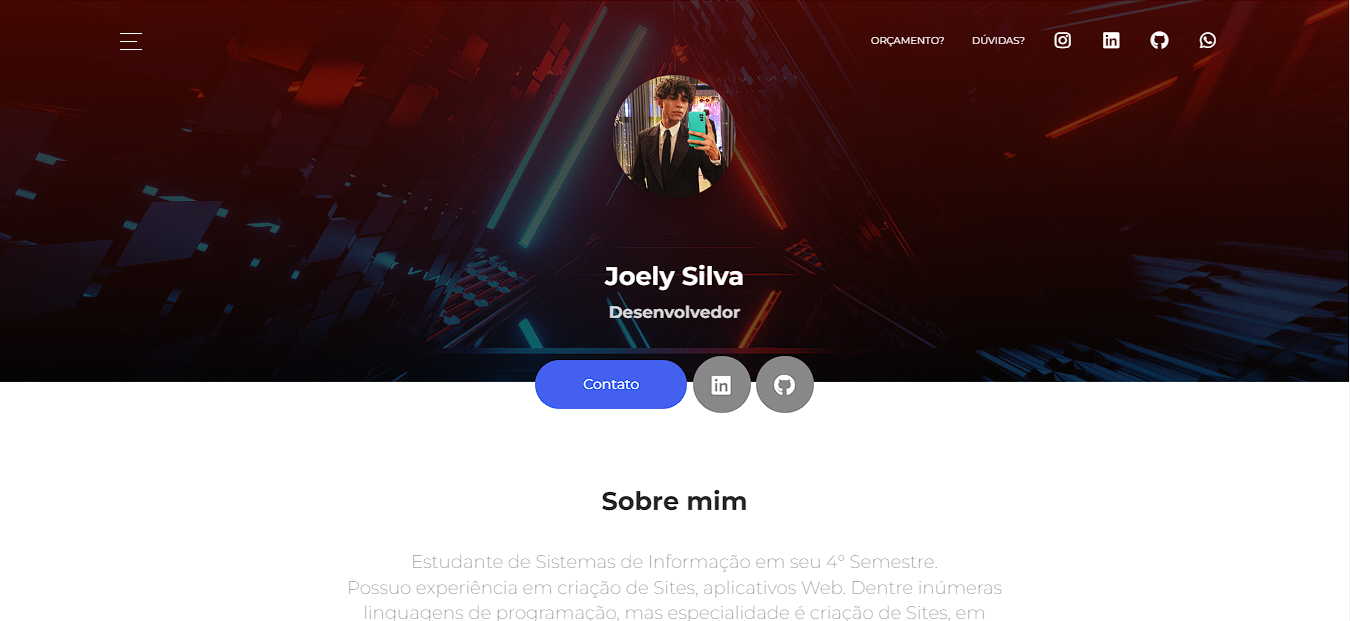
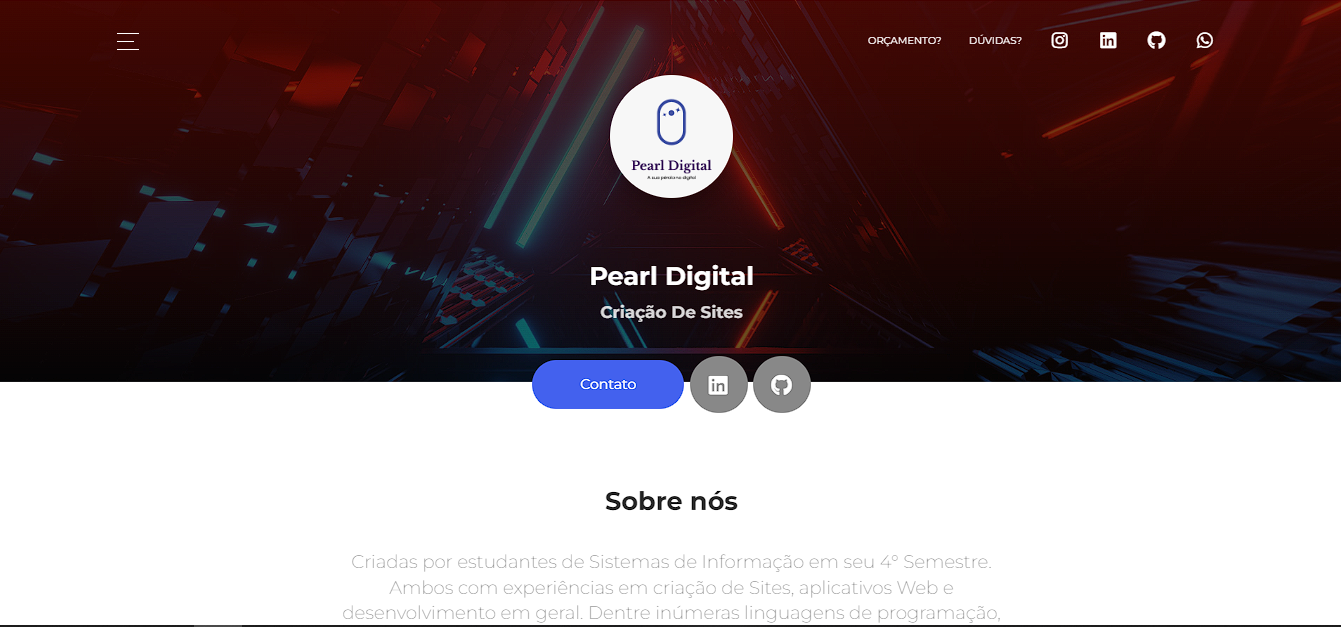
siteok

diff --git a/sobrenos.html b/sobrenos.html
@@ -1,0 +1,233 @@
+<!DOCTYPE html>
+<html lang="en">
+
+<head>
+    <meta charset="utf-8" />
+    <link rel="apple-touch-icon" sizes="76x76" href="./assets/img/apple-icon.png">
+    <link rel="icon" type="image/png" href="./assets/img/logopd.png">
+    <meta http-equiv="X-UA-Compatible" content="IE=edge,chrome=1" />
+    <title>
+        Pearl Digital
+    </title>
+    <meta content='width=device-width, initial-scale=1.0, maximum-scale=1.0, user-scalable=0, shrink-to-fit=no'
+        name='viewport' />
+    <!--     Fonts and icons     -->
+    <link href="https://fonts.googleapis.com/css?family=Montserrat:400,700,200" rel="stylesheet" />
+    <link rel="stylesheet" href="https://use.fontawesome.com/releases/v5.7.1/css/all.css"
+        integrity="sha384-fnmOCqbTlWIlj8LyTjo7mOUStjsKC4pOpQbqyi7RrhN7udi9RwhKkMHpvLbHG9Sr" crossorigin="anonymous">
+    <!-- CSS Files -->
+    <link href="./assets/css/bootstrap.min.css" rel="stylesheet" />
+    <link href="./assets/css/now-ui-kit.css?v=1.3.0" rel="stylesheet" />
+    <!-- CSS Just for demo purpose, don't include it in your project -->
+    <link href="./assets/demo/demo.css" rel="stylesheet" />
+</head>
+
+<body class="landing-page sidebar-collapse">
+    <!-- Navbar -->
+    <nav class="navbar navbar-expand-lg bg-primary fixed-top navbar-transparent " color-on-scroll="400">
+        <div class="container">
+            <div class="dropdown button-dropdown">
+                <a href="#pablo" class="dropdown-toggle" id="navbarDropdown" data-toggle="dropdown">
+                    <span class="button-bar"></span>
+                    <span class="button-bar"></span>
+                    <span class="button-bar"></span>
+                </a>
+            </div>
+            <div class="navbar-translate">
+                <button class="navbar-toggler navbar-toggler" type="button" data-toggle="collapse"
+                    data-target="#navigation" aria-controls="navigation-index" aria-expanded="false"
+                    aria-label="Toggle navigation">
+                    <span class="navbar-toggler-bar top-bar"></span>
+                    <span class="navbar-toggler-bar middle-bar"></span>
+                    <span class="navbar-toggler-bar bottom-bar"></span>
+                </button>
+            </div>
+            <div class="collapse navbar-collapse justify-content-end" id="navigation"
+                data-nav-image="../assets/img/blurred-image-1.jpg">
+                <ul class="navbar-nav">
+                    <li class="nav-item">
+                        <a class="nav-link" href="https://wa.me/5588981522648">Orçamento?</a>
+                    </li>
+                    <li class="nav-item">
+                        <a class="nav-link" href="https://wa.me/5588981522648">Dúvidas?</a>
+                    </li>
+                    <li class="nav-item">
+                        <a class="nav-link" rel="tooltip" title="Me siga no Instagram" data-placement="bottom" href="https://www.instagram.com/ss.joely/"
+                            target="_blank">
+                            <i class="fab fa-instagram"></i>
+                        </a>
+                    </li>
+                    <li class="nav-item">
+                        <a class="nav-link" rel="tooltip" title="Me veja no Linkedin" data-placement="bottom" href="https://www.linkedin.com/in/joely-sousa-silva-231322167/"
+                            target="_blank">
+                            <i class="fab fa-linkedin"></i>
+                            <p class="d-lg-none d-xl-none">Me encontre no Linkedin</p>
+                        </a>
+                    </li>
+                    <li class="nav-item">
+                        <a class="nav-link" rel="tooltip" title="Me veja no github" data-placement="bottom" href="https://github.com/JSSO0"
+                            target="_blank">
+                            <i class="fab fa-github"></i>
+                        </a>
+                    </li>
+                    <li class="nav-item">
+                        <a class="nav-link" rel="tooltip" title="Me contrate" data-placement="bottom" href="https://wa.me/5588981522648"
+                            target="_blank">
+                            <i class="fab fa-whatsapp"></i>
+                        </a>
+                    </li>
+                </ul>
+            </div>
+        </div>
+    </nav>
+    <!-- End Navbar -->
+
+    <div class="wrapper">
+        <div class="page-header page-header-small">
+            <div class="page-header-image" data-parallax="true" style="background-image: url('./assets/img/bg3.jpg');">
+            </div>
+            <div class="content-center">
+                <div class="container">
+                    <h1 class="title">Pearl Digital.</h1>
+                    <div class="text-center">
+                        <a href="https://wa.me/5588981522648" class="btn btn-primary btn-icon btn-round">
+                            <i class="fab fa-whatsapp"></i>
+                        </a>
+                        <a href="https://www.linkedin.com/in/joely-sousa-silva-231322167/" class="btn btn-primary btn-icon btn-round">
+                            <i class="fab fa-linkedin"></i>
+                        </a>
+                        <a href="https://github.com/JSSO0" class="btn btn-primary btn-icon btn-round">
+                            <i class="fab fa-github"></i>
+                        </a>
+                    </div>
+                </div>
+            </div>
+        </div>
+        <div class="section section-about-us">
+            <div class="container">
+                <div class="row">
+                    <div class="col-md-8 ml-auto mr-auto text-center">
+                        <h2 class="title">Quem somos?</h2>
+                        <h5 class="description">Trabalhamos com criação de Sites, de Landing Pages a
+                            um pouco mais complexos, somente estático, podemos realizar o salvamento de dados, como
+                            captura de leads, e-mail e afins.
+                            Futuramente, começaremos a criação de aplicativos mobile, se tiver uma demanda entre em
+                            contato, negociaremos da melhor forma, mais rápida entrega e o menor preço de mercado.
+                        </h5>
+                    </div>
+                </div>
+                <div class="separator separator-primary"></div>
+                <div class="section-story-overview">
+                    <div class="row">
+                        <div class="col-md-6">
+                            <div class="image-container image-left" style="background-image: url('./assets/img/ex1.png')">
+                                <!-- First image on the left side -->
+                                <p class="blockquote blockquote-primary">"Nunca quis ser melhor que ninguém... <br>
+                                    Apenas tive o comprometimento!"
+                                    <br>
+                                    <br>
+                                    <small>-Major RD</small>
+                                </p>
+                            </div>
+                        </div>
+                        <div class="col-md-5">
+                            <!-- First image on the right side, above the article -->
+                            <a href="https://buzfeed.netlify.app/">
+                                <div class="image-container image-right" style="background-image: url('./assets/img/ex2.png')"></div>
+                            </a>
+                            <h3>Estes são alguns dos sites que criei, clicando <a href="#">aqui</a> será direcionado a uma galeria</h3>
+                        </div>
+                    </div>
+                </div>
+            </div>
+        </div>
+        <div class="section section-team text-center">
+            <div class="container">
+                <h2 class="title">O time</h2>
+                <div class="team">
+                    <div class="row">
+                        <div class="col-md-4">
+                            <div class="team-player text-center">
+                                <img src="./assets/img/eu.jpg" alt="Thumbnail Image"
+                                    class="rounded-circle img-fluid img-raised">
+                                <h4 class="title">Joely Silva</h4>
+                                <p class="category text-primary">Desenvolvedor e Administrador</p>
+                                <p class="description">Dentre as capacidades, temos além do Web Design, construção de sites, construção de aplicativos, fundador da Pearl Digital, empresa virtual de Softwares e sites!
+                                    1 ano com experiência em construção de sites, vc pode acessar meu
+                                    <a href="https://portifoliopd.netlify.app/">portifolio</a> ou entrar em contato se desejar mais informações sobre.</p>
+                                <a href="https://wa.me/5588981522648" class="btn btn-primary btn-icon btn-round"><i
+                                        class="fab fa-whatsapp"></i></a>
+                                <a href="https://www.linkedin.com/in/joely-sousa-silva-231322167/" class="btn btn-primary btn-icon btn-round"><i
+                                        class="fab fa-linkedin"></i></a>
+                            </div>
+                        </div>
+                        <div class="col-md-4">
+                            <div class="team-player text-center">
+                                <img src="./assets/img/junio.jfif" alt="Thumbnail Image"
+                                    class="rounded-circle img-fluid img-raised">
+                                <h4 class="title">Janailson Junio</h4>
+                                <p class="category text-primary">Desenvolvedor</p>
+                                <p class="description">Possuo experiencia em criação de sites para lojas, com criação de páginas para produtos e carrinhos, como pode ver em
+                                    <a href="#">portifolio</a> e se desejar mais informações sobre entre em contato abaixo.</p>
+                                <a href="https://www.instagram.com/junio_sm/" class="btn btn-primary btn-icon btn-round"><i
+                                        class="fab fa-instagram"></i></a>
+                                <a href="https://github.com/juniosm" class="btn btn-primary btn-icon btn-round"><i
+                                        class="fab fa-github"></i></a>
+                            </div>
+                        </div>
+
+                    </div>
+                </div>
+            </div>
+        </div>
+       
+        <footer class="footer footer-default">
+            <div class=" container ">
+                <nav>
+                    <ul>
+                        <li>
+                            <a href="https://wa.me/5588981522648">
+                                Orçamento
+                            </a>
+                        </li>
+                        <li>
+                            <a href="https://pearldigital.netlify.app/">
+                                Sobre nós
+                            </a>
+                        </li>
+                        <li>
+                            <a href="https://wa.me/5588981522648">
+                                Contato
+                            </a>
+                        </li>
+                    </ul>
+                </nav>
+                <div class="copyright" id="copyright">
+                    &copy;
+                    <script>
+                        document.getElementById('copyright').appendChild(document.createTextNode(new Date()
+                            .getFullYear()))
+                    </script> Feito por
+                    <a href="https://pearldigital.netlify.app/" target="_blank">Pearl Digital</a>.Codificado por
+                    <a href="https://pearldigital.netlify.app/" target="_blank">Pearl Digital</a>.
+                </div>
+            </div>
+        </footer>
+    </div>
+    <!--   Core JS Files   -->
+    <script src="../assets/js/core/jquery.min.js" type="text/javascript"></script>
+    <script src="../assets/js/core/popper.min.js" type="text/javascript"></script>
+    <script src="../assets/js/core/bootstrap.min.js" type="text/javascript"></script>
+    <!--  Plugin for Switches, full documentation here: http://www.jque.re/plugins/version3/bootstrap.switch/ -->
+    <script src="../assets/js/plugins/bootstrap-switch.js"></script>
+    <!--  Plugin for the Sliders, full documentation here: http://refreshless.com/nouislider/ -->
+    <script src="../assets/js/plugins/nouislider.min.js" type="text/javascript"></script>
+    <!--  Plugin for the DatePicker, full documentation here: https://github.com/uxsolutions/bootstrap-datepicker -->
+    <script src="../assets/js/plugins/bootstrap-datepicker.js" type="text/javascript"></script>
+    <!--  Google Maps Plugin    -->
+    <script src="https://maps.googleapis.com/maps/api/js?key=YOUR_KEY_HERE"></script>
+    <!-- Control Center for Now Ui Kit: parallax effects, scripts for the example pages etc -->
+    <script src="../assets/js/now-ui-kit.js?v=1.3.0" type="text/javascript"></script>
+</body>
+
+</html>

diff --git a/index.html b/index.html
@@ -17,10 +17,10 @@
   <link rel="stylesheet" href="https://use.fontawesome.com/releases/v5.7.1/css/all.css"
     integrity="sha384-fnmOCqbTlWIlj8LyTjo7mOUStjsKC4pOpQbqyi7RrhN7udi9RwhKkMHpvLbHG9Sr" crossorigin="anonymous">
   <!-- CSS Files -->
-  <link href="../assets/css/bootstrap.min.css" rel="stylesheet" />
-  <link href="../assets/css/now-ui-kit.css?v=1.3.0" rel="stylesheet" />
+  <link href="./assets/css/bootstrap.min.css" rel="stylesheet" />
+  <link href="./assets/css/now-ui-kit.css?v=1.3.0" rel="stylesheet" />
   <!-- CSS Just for demo purpose, don't include it in your project -->
-  <link href="../assets/demo/demo.css" rel="stylesheet" />
+  <link href="./assets/demo/demo.css" rel="stylesheet" />
 </head>
 
 <body class="profile-page sidebar-collapse">
@@ -87,10 +87,10 @@
       </div>
       <div class="container">
         <div class="photo-container">
-          <img src="../assets/img/eu.jpg" alt="">
+          <img src="./assets/img/logopd.png" alt="">
         </div>
-        <h3 class="title">Joely Silva</h3>
-        <p class="category">Desenvolvedor</p>
+        <h3 class="title">Pearl Digital</h3>
+        <p class="category">Criação de Sites</p>
       </div>
     </div>
     <div class="section">
@@ -106,16 +106,16 @@
             <i class="fab fa-github"></i>
           </a>
         </div>
-        <h3 class="title">Sobre mim</h3>
-        <h5 class="description">Estudante de Sistemas de Informação em seu 4° Semestre.<br>
-          Possuo experiência em criação de Sites, aplicativos Web.
-          Dentre inúmeras linguagens de programação, mas especialidade é criação de Sites, em principal Landing Pages
+        <h3 class="title">Sobre nós</h3>
+        <h5 class="description">Criadas por estudantes de Sistemas de Informação em seu 4° Semestre.<br>
+          Ambos com experiências em criação de Sites, aplicativos Web e desenvolvimento em geral.
+          Dentre inúmeras linguagens de programação, mas nossas especialidade é criação de Sites, em principal Landing Pages
           com captura de Leads, e-mail, nomes, números e afins.
-          Veja abaixo alguns dos meus trabalhos.
+          Veja abaixo alguns dos nossos trabalhos.
         </h5>
         <div class="row">
           <div class="col-md-6 ml-auto mr-auto">
-            <h4 class="title text-center">Meu Portfolio</h4>
+            <h4 class="title text-center">Portfolio Pearl Digital</h4>
             <div class="nav-align-center">
               <ul class="nav nav-pills nav-pills-primary nav-pills-just-icons" role="tablist">
                 <li class="nav-item">
@@ -133,12 +133,18 @@
                 <div class="row collections">
                   <div class="col-md-6">
                     <a href="https://pearldigital02.netlify.app/"><img src="./assets/img/ex1.png" alt="" class="img-raised"></a>
-                    <img src="./assets/img/ex4.png" alt="" class="img-raised">
-                    
+                    <a href="#"><img src="./assets/img/ex4.png" alt="" class="img-raised"></a>
                   </div>
                   <div class="col-md-6">
-                    <a href="https://pearldigital.netlify.app/"><img src="./assets/img/ex3.png" alt="" class="img-raised"></a>
+                    <a href="sobrenos.html"><img src="./assets/img/ex3.png" alt="" class="img-raised"></a>
                     <a href="https://buzfeed.netlify.app/"><img src="./assets/img/ex2.png" alt="" class="img-raised"></a>
+                  </div>
+                  <div class="col-md-6">
+                    <a href="https://pearldigital.netlify.app/"><img src="./assets/img/ex5.png" alt="" class="img-raised"></a>
+                    <a href="https://buzfeed.netlify.app/"><img src="./assets/img/ex7.jpg" alt="" class="img-raised"></a>
+                  </div>
+                  <div class="col-md-6">
+                    <a href="https://pearldigital.netlify.app/"><img src="./assets/img/ex6.png" alt="" class="img-raised"></a>
                   </div>
                 </div>
               </div>
@@ -159,7 +165,7 @@
                             </a>
                         </li>
                         <li>
-                            <a href="https://pearldigital.netlify.app/">
+                            <a href="./sobrenos.html">
                                 Sobre nós
                             </a>
                         </li>
@@ -176,8 +182,8 @@
                         document.getElementById('copyright').appendChild(document.createTextNode(new Date()
                             .getFullYear()))
                     </script> Feito por
-                    <a href="https://pearldigital.netlify.app/" target="_blank">Pearl Digital</a>.Codificado por
-                    <a href="https://pearldigital.netlify.app/" target="_blank">Pearl Digital</a>.
+                    <a href="./sobrenos.html" target="_blank">Pearl Digital</a>.Codificado por
+                    <a href="./sobrenos.html" target="_blank">Pearl Digital</a>.
                 </div>
             </div>
         </footer>
